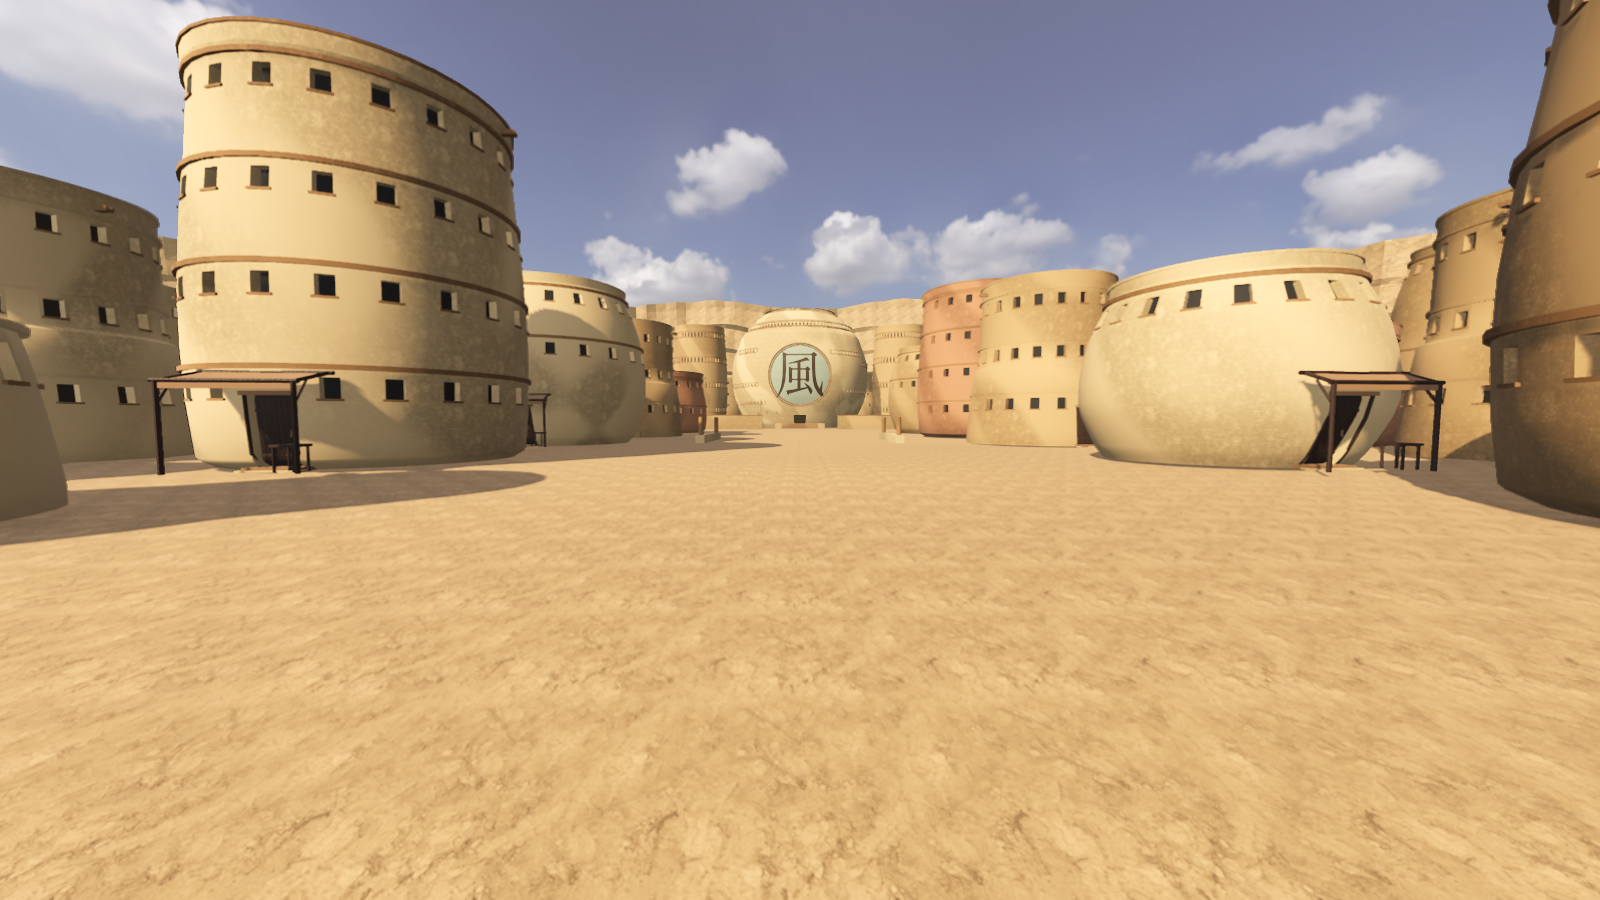
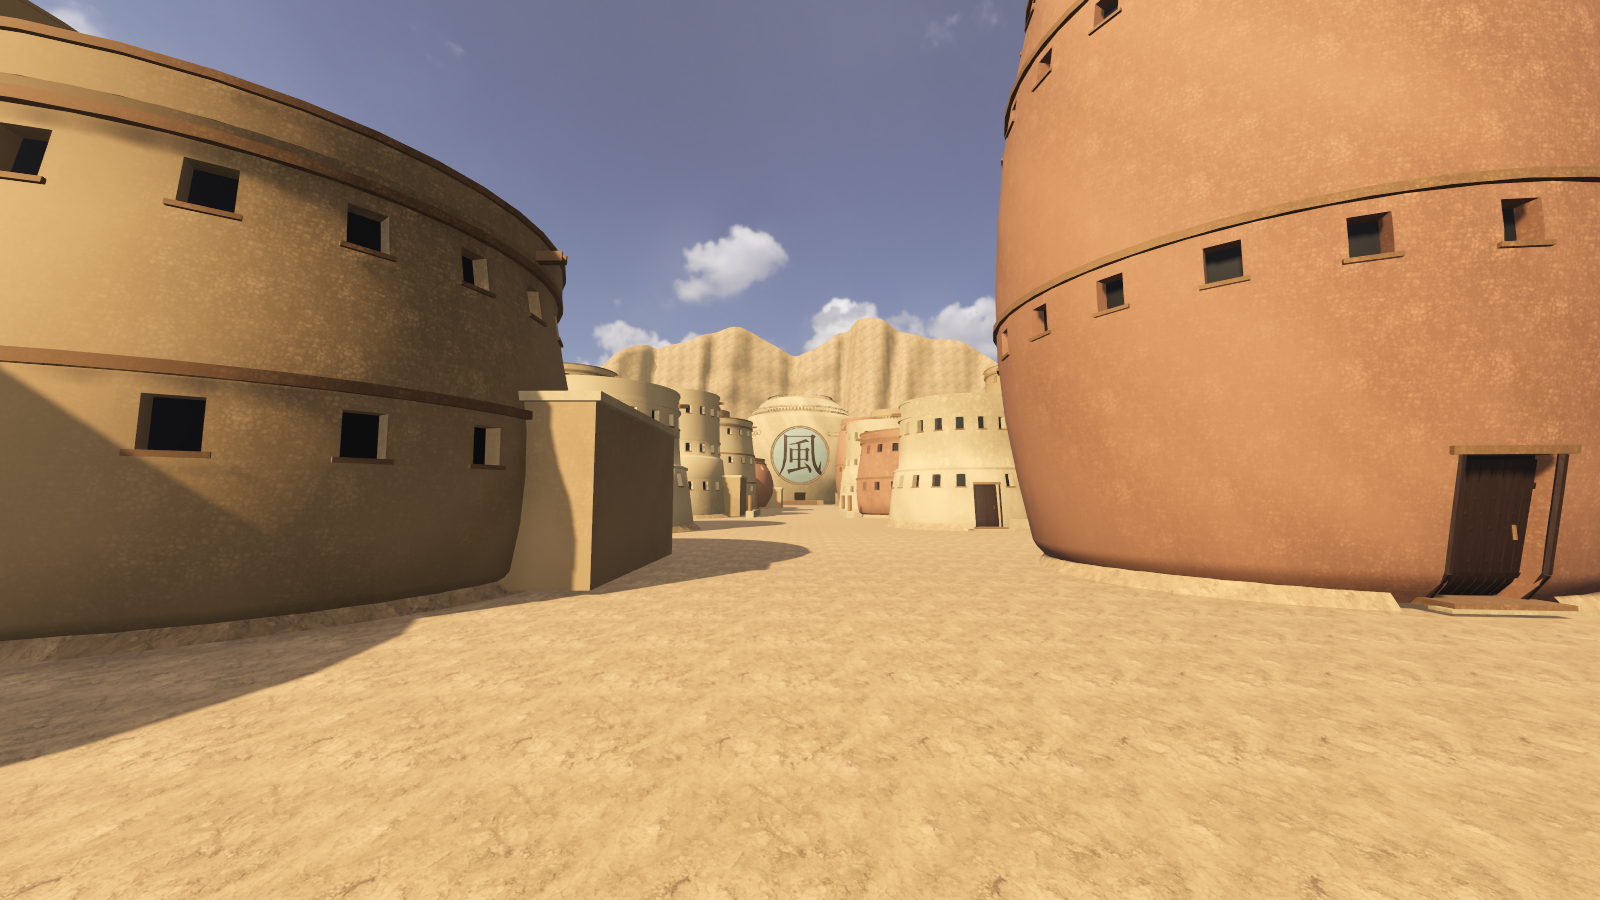
Improve Sand street geometry and record measured intervention results

diff --git a/tools/model/suna.py b/tools/model/suna.py
@@ -8,6 +8,7 @@ import os
 import hashlib
 from pathlib import Path
 import bpy
+import bmesh
 from collections import defaultdict
 from common import Builder, material, MATS, text
 from districts import Frame
@@ -59,6 +60,16 @@ def house(b,x,y,r,floors,rng,rich=True,family=0,occluders=None):
         # Shallow stepped dome rises inside the terrace parapet.
         dome=[(height,roof_r*.70),(height+.35,roof_r*.65),(height+.80,roof_r*.48),(height+1.1,.10)]
         profiled_shell(f,dome,0,mat,bays=40 if rich else 20,detailed=False)
+    # Wind deposited apron fades into the ground; leave the door approach bare.
+    if rich:
+        skirt=[]
+        for i in range(49):
+            a=.25+(math.tau-.50)*i/48
+            drift=.20+.28*(.5+.5*math.sin(a*3+x*.37))
+            rr=radius_at(profile,.1)
+            skirt.extend([(rr*math.sin(a),-rr*math.cos(a),.16+drift*.25),
+                ((rr+drift)*math.sin(a),-(rr+drift)*math.cos(a),-.075)])
+        f.mesh(skirt,[(2*i,2*i+1,2*i+3,2*i+2) for i in range(48)],'sand_ground')
     if not rich:
         # Distant window cuts use four vertices apiece, batched with each cell.
         for story in range(floors):
@@ -243,29 +254,30 @@ def office(roles,occluders):
 
 def enclosure(roles):
     rng=random.Random(SEED+1)
-    count=288
+    count=576
     # Alternating resistant ledges and recessed beds; each has its own thickness.
     heights=[0,.07,.15,.21,.235,.32,.39,.415,.49,.57,.595,.69,.76,.79,.88,.94,1.]
     shelves=[0,-1,1.1,1.9,-.6,.4,2.2,-1.2,.6,2.3,-.8,.9,2.8,-.4,1.5,2.1,1.]
     def point(i,j):
         a=-math.pi/2+.055+(math.tau-.11)*i/count
         t=heights[j]
+        a+=math.sin(a*19+t*7)*.0025*math.sin(math.pi*t)
         # Erosion runs vertically through beds, while joint spacing varies around basin.
-        gully=(.5+.5*math.sin(a*43+math.sin(a*13)))**6
+        gully=(.5+.5*math.sin(a*43+math.sin(a*13)+t*1.7))**6
         joint=math.sin(a*89+j*.62)*.62+math.sin(a*131-j*.41)*.36
-        buttress=3.8*math.sin(a*17+1.4)+1.8*math.sin(a*31)
-        radius=245+buttress+t*16+shelves[j]*(.65+.35*math.sin(a*8+1))+gully*4.5+joint
-        elevation=t*(66+7*math.sin(a*5)+4*math.sin(a*11))
+        buttress=9.0*math.sin(a*7+1.4)+5.8*math.sin(a*17)+2.8*math.sin(a*31)
+        radius=245+buttress+t*16+shelves[j]*(.35+.65*math.sin(a*8+1))*math.sin(a*3+t*4)+gully*9.5+joint
+        elevation=t*(91+17*math.sin(a*5)+10*math.sin(a*11)+5*math.sin(a*23))
         if j not in (0,len(heights)-1):elevation+=math.sin(a*23+j*.4)*.62+math.sin(a*59)*.34
         return (radius*math.cos(a),radius*math.sin(a),elevation-.13)
-    for start in range(0,count,24):
+    for start in range(0,count,count):
         b=Builder('Sand eroded escarpment %03d'%start)
-        for i in range(start,min(count,start+24)):
+        for i in range(start,min(count,start+count)):
             for j in range(len(heights)-1):
                 p=[point(i,j),point(i+1,j),point(i+1,j+1),point(i,j+1)]
                 # Triangulated angular beds carry real ledge and gully silhouettes.
                 faces=[(0,3,2),(0,2,1)] if (i+j)%2 else [(0,3,1),(1,3,2)]
-                mat='sand_strata' if j in (3,6,9,12) and (i//3)%7==0 else 'sand_rock'
+                mat='sand_rock'
                 b.mesh(p,faces,mat)
             a,c=point(i,len(heights)-1),point(i+1,len(heights)-1)
             b.mesh([a,c,(c[0]*1.38,c[1]*1.38,c[2]+2.4),(a[0]*1.38,a[1]*1.38,a[2]+2.4)],[(3,2,1,0)],'sand_rock')
@@ -275,13 +287,17 @@ def enclosure(roles):
             uppa=point(i,1);uppc=point(i+1,1)
             b.mesh([basea,basec,uppc,uppa],[(0,3,2),(0,2,1)],'sand_rock')
         for _ in range(25):
-            i=rng.uniform(start,min(count-.001,start+24))
+            i=rng.uniform(start,min(count-.001,start+count))
             a=-math.pi/2+.055+(math.tau-.11)*i/count
             rr=rng.uniform(229,240);size=rng.uniform(.28,1.25)
             b.sphere((rr*math.cos(a),rr*math.sin(a),size*.29),(size,size*.73,size*.58),'sand_rock',n=7,rings=4)
         objects=finish(b,roles,True,1500)
         for ob in objects:
-            for face in ob.data.polygons:face.use_smooth=False
+            bm=bmesh.new();bm.from_mesh(ob.data)
+            bmesh.ops.remove_doubles(bm,verts=list(bm.verts),dist=.001)
+            bmesh.ops.recalc_face_normals(bm,faces=list(bm.faces))
+            bm.to_mesh(ob.data);bm.free()
+            for face in ob.data.polygons:face.use_smooth=True
 
 
 def build(slice_only=False):
@@ -289,23 +305,37 @@ def build(slice_only=False):
     ground=Builder('Sand ground');ground.box((0,0,-.20),(900,900,.4),'sand_ground')
     for ob in finish(ground,roles,True,1800):roles[ob.name]['occlusion_culling']=False
     font_record=office(roles,occluders)
-    # Seven rows leave a 13m ceremonial avenue and walkable 2m+ side lanes.
+    # Staggered frontage clusters tighten the avenue to 8-12m, opening into
+    # the official plaza. Metric entrances stay unchanged; layouts are inferred.
     count=0;frontages=[]
-    for row,y in enumerate((-59,-44,-29,-14,1,16,31)):
-        for column,x in enumerate((-47,-32,-17,17,32,47)):
-            if y>15 and abs(x)<25:continue
-            r=rng.uniform(4.6,5.7);floors=rng.choice([2,3,3,4])
+    for row,y in enumerate((-60,-43,-27,-10,7,25,41)):
+        for column,x in enumerate((-43,-27,-11,11,27,43)):
+            if y>15 and abs(x)<20:continue
+            r=rng.uniform(4.2,5.9)
+            floors=rng.choice([2,2,3,4,5])
             b=Builder('Sand district %02d'%count)
-            hx=x+rng.uniform(-.5,.5)
-            house(b,hx,y,r,floors,rng,True,(row+column)%3,occluders)
-            frontages.append((row,hx,y,r))
+            hx=x+rng.uniform(-1.3,1.3)
+            # Reserve x [-20.5,-17.5] through the residential district, including
+            # maximum bulge, trims and drift skirts. Annexes face away from it.
+            if x==-27:hx=min(hx,-20.5-1.12*r-.65)
+            if x==-11:hx=max(hx,-17.5+1.12*r+.65)
+            hy=y+rng.uniform(-2.0,2.0)+(2.5 if column%2 else 0.)
+            house(b,hx,hy,r,floors,rng,True,rng.randrange(3),occluders)
+            frontages.append((row,hx,hy,r))
+            # Low attached rear rooms form inhabited compounds, breaking the
+            # isolated tower rhythm without changing the tower or its doorway.
+            if row%2==column%2:
+                annex=Frame(b,hx+(-1 if x==-27 else 1)*r*.58,hy+r*.42,.1)
+                ah=2.8+rng.random()*.8
+                annex.box((0,0,ah/2),(r*1.35,r*1.15,ah),'sand_stucco')
+                annex.box((0,0,ah),(r*1.40,r*1.20,.18),'sand_pale')
             finish(b,roles,True,650);count+=1
     # Shared masonry courts join selected neighbors; 1.2m portals retain passage.
     links=Builder('Sand shared service courts')
     for row in (0,2,4,6):
         houses=sorted([p for p in frontages if p[0]==row],key=lambda p:p[1])
         for aa,bb in zip(houses,houses[1:]):
-            if aa[1]*bb[1]<0:continue
+            if aa[1]*bb[1]<0 or aa[1]<-19<bb[1]:continue
             left=aa[1]+aa[3]*.87;right=bb[1]-bb[3]*.87
             span=right-left
             if span<1.6:continue
@@ -319,7 +349,7 @@ def build(slice_only=False):
     finish(links,roles,True,400)
     # Public courtyard and route furniture are practical masonry, not vegetation.
     court=Builder('Sand courtyard');f=Frame(court,0,-23,0)
-    for x in (-7.2,7.2):
+    for x in (-4.2,4.2):
         f.box((x,0,.29),(.65,8,.58),'sand_pale')
         for y in (-3.5,3.5):f.cyl((x,y,.95),.18,1.9,'sand_trim',n=16)
     # Small covered well on a lateral court, maintaining central road clearance.
@@ -342,7 +372,7 @@ def build(slice_only=False):
             if math.hypot(x,y)>225 or (abs(x)<64 and -75<y<80) or abs(x)<9:continue
             key=(x//64,y//64)
             if key not in cells:cells[key]=Builder('Sand skyline %d %d'%key)
-            hx=x+rng.uniform(-1.5,1.5);hy=y+rng.uniform(-1.5,1.5)
+            hx=x+rng.uniform(-2.5,2.5)+(3.5 if (y//step)%2 else -1.5);hy=y+rng.uniform(-2.4,2.4)
             radius=rng.uniform(4.4,6.6);floors=rng.choice([2,3,4,5]);height=floors*3.15+.94
             house(cells[key],hx,hy,radius,floors,rng,False,macro%3,occluders)
             colliders.append({'shape':'cylinder','position':godot((hx,hy,height/2+.10)),'radius':radius,'height':height})
@@ -356,5 +386,5 @@ def build(slice_only=False):
         'occluders':occluders,'baked_font':font_record,
         'bookmarks':[{'name':'Sand avenue','position':godot((0,-72,.12)),'target':godot((0,46,12))},
             {'name':'Kazekage plaza','position':godot((0,15,.12)),'target':godot((0,46,12))},
-            {'name':'Clay district','position':godot((-9,-42,.12)),'target':godot((-30,-29,8))},
+            {'name':'Clay district','position':godot((-19,-42,.12)),'target':godot((-30,-29,8))},
             {'name':'Enclosure','position':godot((0,-213,.12)),'target':godot((0,0,20))}]}

diff --git a/evidence/review.md b/evidence/review.md
@@ -8,7 +8,7 @@ The current branch contains a generated Sand environment and a separate applicat
 
 - Sand has repeated building arrangements, insufficient street detail and weak canyon geology. Its visible surfaces and terrain transitions do not meet the required physical realism.
 - The office silhouette was corrected against an inspected reference image, but that secondary reproduction's original episode remains unidentified. Its inferred metric dimensions and connective layout are not canonically exact.
-- Leaf's original sustained M3 measurements fail the frame-time target. Optimized foliage and authored texture coordinates require full-world performance validation.
+- Leaf's prepared scene still fails the sustained gate-route target. Subsequent measured interventions did not resolve it.
 - Three villages, environmental audio, all-five sustained traversal, final art/engineering acceptance, a reproducible final package and a trailer captured from approved shipping environments remain outstanding.
 
 The evidence classifications in this directory record confidence in individual claims. They do not certify the generated world as accurate or finished.
@@ -79,3 +79,34 @@ godot --path . --resolution 1600x900 --script qa/sustained_exploration.gd -- --q
 ```
 
 Raw measurements and captured views are written under `.build/`. Short diagnostic runs are explicitly ineligible for sustained acceptance.
+
+## Active feasibility intervention
+
+The follow-up intervention changed implementation and measured each candidate. Both approval gates remain unmet. The Leaf source experiments were removed after measurement; source and prepared geometry retain the previous tree placements, LODs, shadows and quality settings.
+
+Fresh stationary diagnostics used the actual application at native 1600×900, its gate camera at (0, 0.24, 380), three seconds of warmup and 240 measured frames. These comparisons identify intervention effects; they are not sustained acceptance.
+
+| Leaf candidate | Mean | p95 | Draw calls | Primitives | Disposition |
+| --- | ---: | ---: | ---: | ---: | --- |
+| Control, 24 m tree cells | 22.43 ms | 23.58 ms | 4,355 | 8.89 M | Gate fails |
+| 64 m tree cells | 24.15 ms | 25.24 ms | 3,004 | 11.98 M | Removed; coarse LOD selection promotes excess geometry |
+| 64 m cells with per-tree runtime LOD selection | 24.00 ms | 24.08 ms | 5,548 | 11.96 M | Removed; mixed LOD batches and larger culling bounds remain expensive |
+| Canopy alpha depth prepass | 22.34 ms | 23.29 ms | 4,358 | 8.89 M | Removed; no material benefit |
+
+Diagnostic isolation measured 12.31 ms with the forest hidden, 20.66 ms with shadows disabled, and 19.79 ms with SSAO disabled. Those controls were restored and are not proposed shipping settings.
+
+Sand received two generated and rendered passes. The first narrowed and staggered residential frontages, varied height, added attached rooms and varied weathering. It exposed a blocked old Clay bookmark and retained striped cliff faces. The second reserved a connected 3 m residential lane centered at x = -19 m, moved that bookmark into the lane, added doorway-separated sand accumulation skirts, welded the cliff into a continuous surface and removed its rigid material bands. Office geometry and metric entrances were retained. Lane tests follow the revised physical street.
+
+The latest screenshot above is from the rebuilt runtime. Street enclosure and continuity improved, but repeated facade details, pebbled plaster, elementary geological form and insufficient environmental detail still fail the professional visual gate. No strategy is approved for scaling to the remaining villages. Raw comparison logs and images are under `.build/intervention/`.
+
+The updated Sand geometry/controller suite passed 10/10 checks. A subsequent native 1600×900 run measured each route for 60 seconds after 10 seconds of warmup:
+
+| Sand route | Mean | p95 | p99 |
+| --- | ---: | ---: | ---: |
+| Sand avenue | 5.78 ms | 5.92 ms | 8.04 ms |
+| Kazekage approach | 5.33 ms | 6.16 ms | 7.35 ms |
+| Clay district | 5.76 ms | 6.29 ms | 17.08 ms |
+
+Each route completed eight reversals with no sustained movement block, no loss of ground contact and no frame above 50 ms. This passes the implemented three-route performance test, not long-term thermal acceptance or the visual gate. The harness now waits for initial Leaf startup before requesting a different first village.
+
+An additional Vulkan/Forward+ comparison retained the same scene and rendering settings. It measured 24.04 ms mean and 24.14 ms p95, slower than the Metal control, and emitted MoltenVK pipeline-cache write errors. The application retains Metal. Four measured Leaf strategies and two rendered Sand passes therefore leave the joint feasibility gate unapproved.
